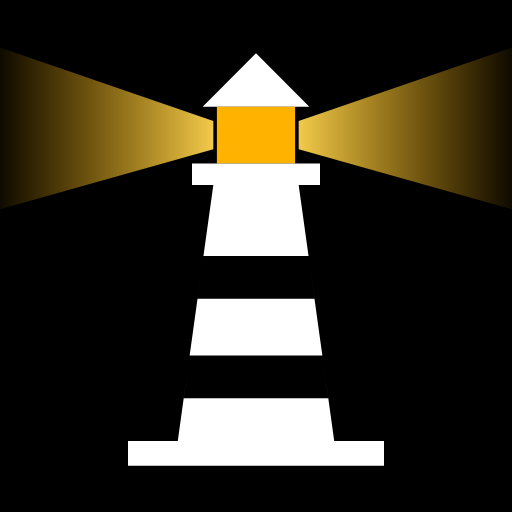
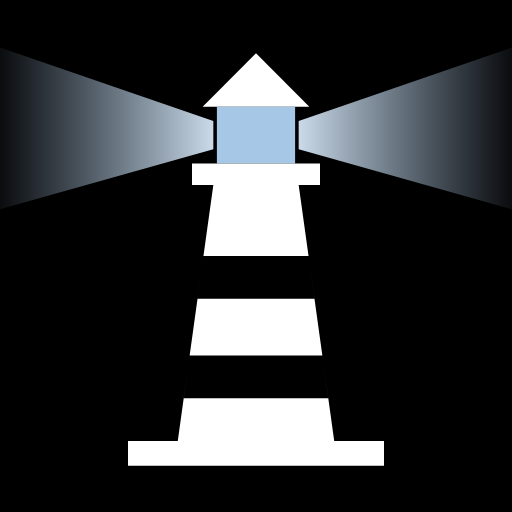
Cambia los haces de luz del icono a azul calma y actualiza el README
- Icono: haces y linterna en azul calma, a juego con la app.
- README: explica el uso opcional de internet (Nostr), que es código
  abierto y enlaza la versión de prueba.

Claude-Session: https://claude.ai/code/session_018FNH5PjJp7CR1myogr8DFZ

Changed region(s): [[0.0, 0.0938, 1.0, 0.4062]]

diff --git a/README.md b/README.md
@@ -1,12 +1,12 @@
-<img width="160" height="160" alt="Icono de Faro: un faro blanco con dos haces de luz ámbar sobre fondo negro" src="fastlane/metadata/android/en-US/images/icon.png" />
+<img width="160" height="160" alt="Icono de Faro: un faro blanco con dos haces de luz azul calma sobre fondo negro" src="fastlane/metadata/android/en-US/images/icon.png" />
 
 # Faro
 
 **Te guía hasta los tuyos en la oscuridad.**
 
-Faro es una app Android gratuita para mantener el contacto con tu familia y tus vecinos cuando no hay cobertura ni internet: un apagón, una DANA, un terremoto. Los mensajes saltan de móvil en móvil por Bluetooth hasta llegar a su destino, sin servidores, sin cuentas y sin número de teléfono.
+Faro es una app Android gratuita para mantener el contacto con tu familia y tus vecinos cuando no hay cobertura ni internet: un apagón, una DANA, un terremoto. Los mensajes saltan de móvil en móvil por Bluetooth hasta llegar a su destino, sin cuentas y sin número de teléfono. Si hay internet, también puede usarlo, siempre cifrado de extremo a extremo.
 
-> **Estado: en desarrollo.** Todavía no hay versión para instalar. El plan y las fases están en [`docs/PLAN.md`](docs/PLAN.md).
+> **Estado: en desarrollo.** Hay una [versión de prueba](https://github.com/fcojalvarez/survivalcontact/releases/tag/prueba) para Android. El plan y las fases están en [`docs/PLAN.md`](docs/PLAN.md).
 
 ## Qué hace
 
@@ -16,7 +16,9 @@ Faro es una app Android gratuita para mantener el contacto con tu familia y tus 
 - **Dónde están los tuyos.** Una brújula que apunta a cada miembro del grupo, con la distancia, y un mapa que funciona sin conexión.
 - **Botón SOS.** Envía tu posición y «necesito ayuda» a todos tus grupos con un toque.
 - **Pensada para durar.** La batería es la prioridad: la app reduce su consumo sola según la carga que te quede.
-- **Privada por diseño.** No hay servidores: tus mensajes y tu ubicación nunca salen de los móviles.
+- **Con internet, cuando lo hay.** Si no hay nadie cerca por Bluetooth, los mismos chats siguen funcionando por internet a través de Nostr, una red de servidores públicos que nadie controla. La app avisa cuando estás sin internet.
+- **Privada por diseño.** Sin cuentas ni servidores propios. Todo va cifrado de extremo a extremo: ni los servidores de Nostr pueden leer tus mensajes ni tu ubicación, que solo se comparte en grupos privados y con tu permiso.
+- **Código abierto.** Cualquiera puede revisar cómo funciona.
 
 ## Cómo funciona
 
